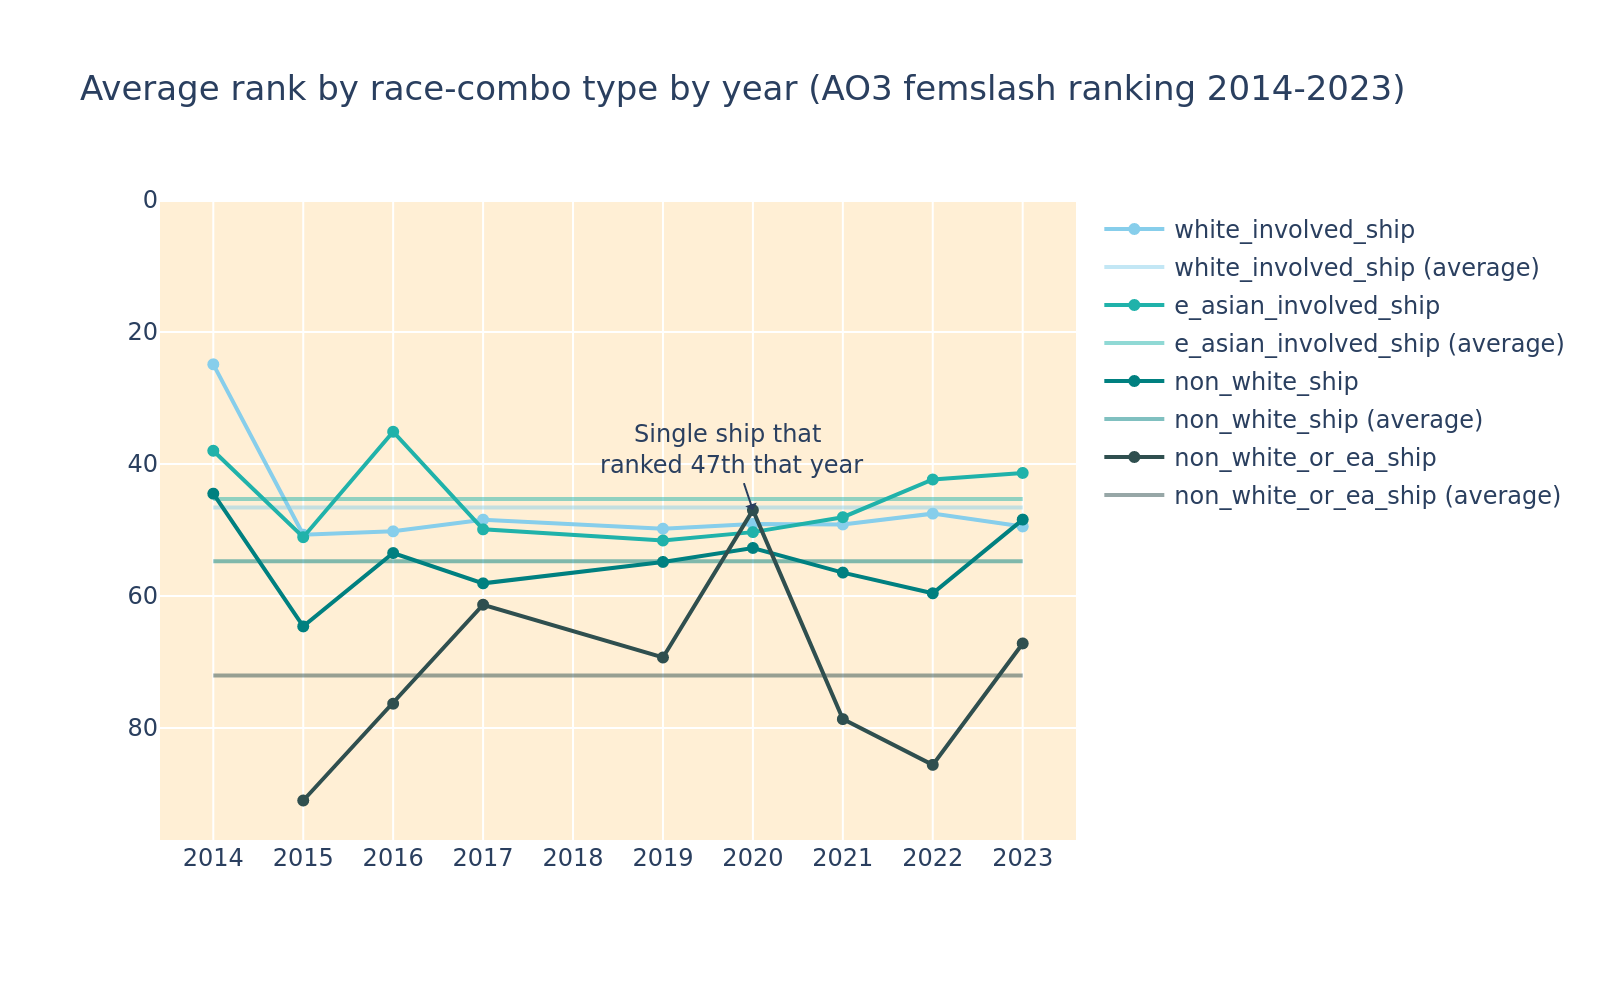
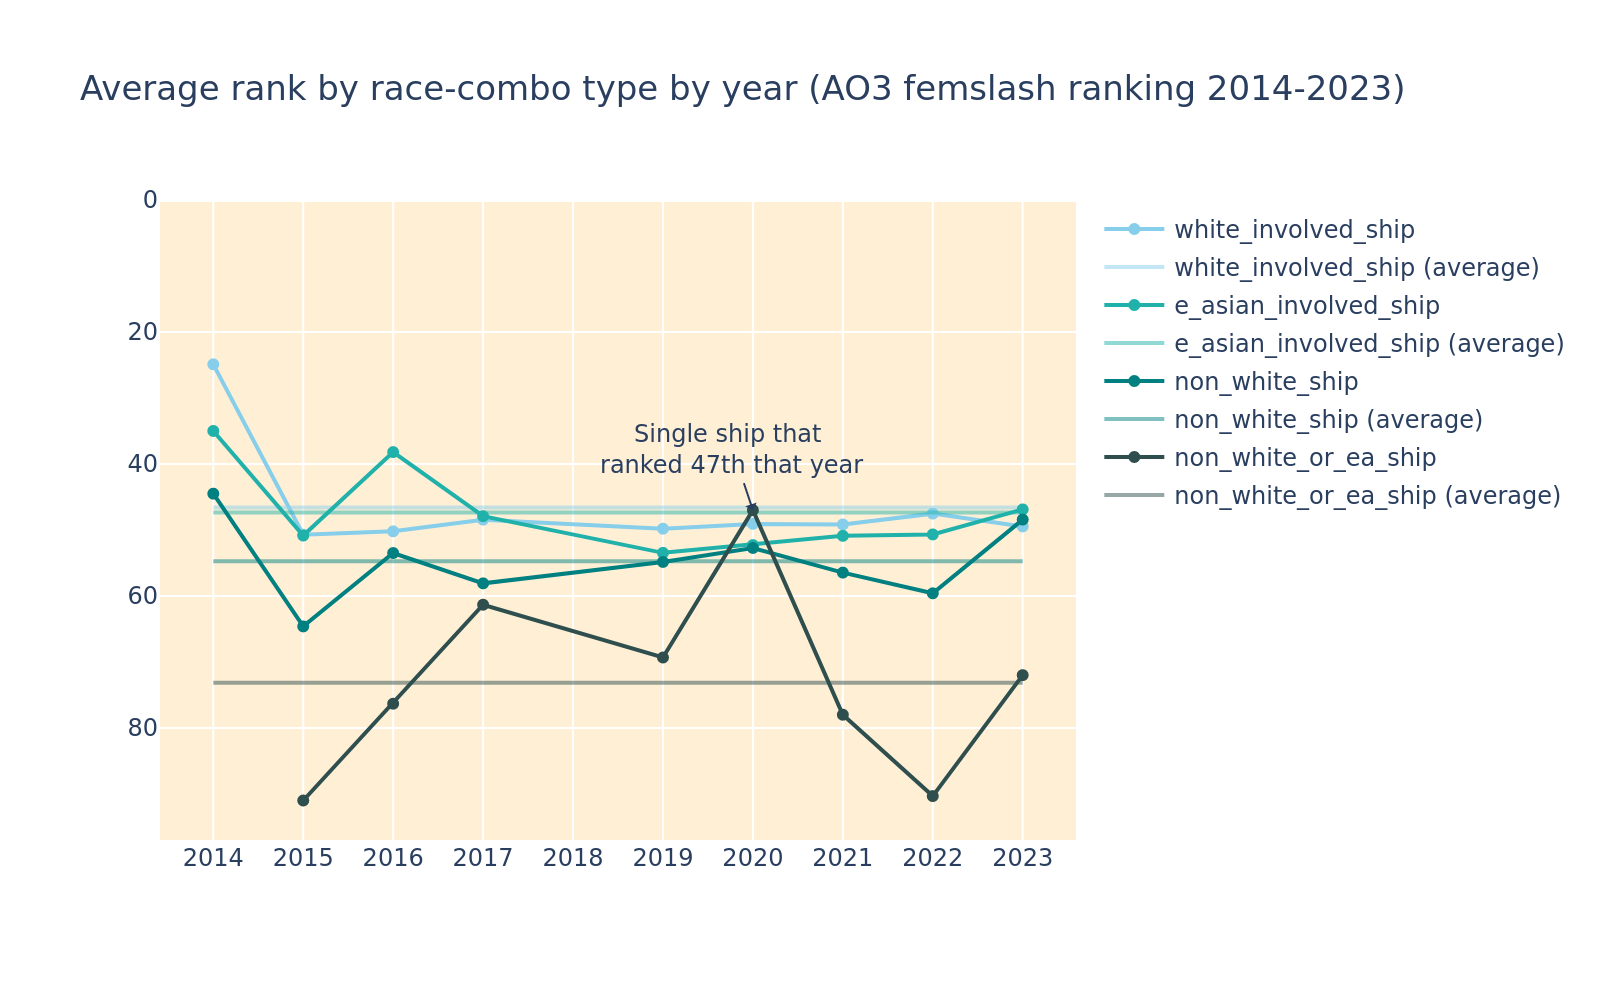
ok I think I fixed the catching issue this time

Changed region(s): [[0.125, 0.434, 0.6562, 0.558], [0.125, 0.651, 0.6562, 0.806]]

diff --git a/visualisation/ao3_all_data_2013_2023/vis_ships_file.py b/visualisation/ao3_all_data_2013_2023/vis_ships_file.py
@@ -181,7 +181,7 @@ def non_white_ships_srs(total_race_combo_counts:pd.DataFrame):
     # this one's the big oof
     non_white_ships = total_race_combo_counts.copy()
     non_white_ships["contains_white_person"] = non_white_ships.index.str.contains("White|Eu Ind")
-    non_white_ships["contains_e_asian_person"] = non_white_ships.index.str.contains("^E Asian", regex=True)
+    non_white_ships["contains_e_asian_person"] = non_white_ships.index.str.contains("^E Asian| E Asian", regex=True)
     non_white_ships["contains_ambig_person"] = non_white_ships.index.str.contains("Ambig")
     non_white_ships["contains_non_human"] = non_white_ships.index.str.contains("N.H.")
     non_white_ships["contains_unknown"] = non_white_ships.index.str.contains("Unknown")

diff --git a/visualisation/input_data_code/make_race_data.py b/visualisation/input_data_code/make_race_data.py
@@ -99,7 +99,7 @@ def prep_df_for_non_white_ship_comp(ship_info_df:pd.DataFrame):
 
         year_df["contains_white_person"] = year_df["race_combo"].str.contains("White|Eu Ind")
             # I want to catch anna and elsa cause they're not a "non-white/non-ea" pairing, that's silly
-        year_df["contains_e_asian_person"] = year_df["race_combo"].str.contains("^E Asian", regex=True)
+        year_df["contains_e_asian_person"] = year_df["race_combo"].str.contains("^E Asian| E Asian", regex=True)
             # making sure this isn't catching SE Asians by accident
         year_df["contains_ambig_person"] = year_df["race_combo"].str.contains("Ambig")
         year_df["contains_non_human"] = year_df["race_combo"].str.contains("N.H.")

diff --git a/visualisation/ao3_femslash_rankings_2014_2023/analysis_2014_2023_femslash_data.md b/visualisation/ao3_femslash_rankings_2014_2023/analysis_2014_2023_femslash_data.md
@@ -126,7 +126,8 @@ White involved, east asian involved and non-white ships hovered around the half-
 
 F.e. in 2020, there was only one ship represented which happened to rank 47th, singlehandedly making for the highest average of its category over the entire period.
 
-When looking at the average of all years' averages, white ivolved ships ranked higher than all other categories, with east asian involved ships in second, non-white ships in third and non-white or ea ships firmly in fourth by quite a margin.
+When looking at the average of all years' averages, white- and east asian-involved ships on average rank slightly above the halfway point, with east asian-involved ones ranking slightly higher than white ones.
+Both other categories rank lower, with non-white and non-east asian ships ranking the lowest out of all the categories.
 
 This means that not only are there less ships per category in this same order, they are also lower ranked on average.
 

diff --git a/visualisation/ao3_all_data_2013_2023/analysis_2013_2023_overall_data.md b/visualisation/ao3_all_data_2013_2023/analysis_2013_2023_overall_data.md
@@ -115,7 +115,7 @@ This chart shows the number of ships with at least one white person, with at lea
 
 ![alt text](ao3_all_data_charts/racial_groups_diagrams/all_ao3_ranked_ships_non_white_ships_2013_2023.png)
 
-I call the last one of those "The Big Oof" as there were only 22 ships (out of the 600 total) that didn't contain any white or east asian people.
+I call the last one of those "The Big Oof" as there were only 17 ships (out of the 600 total) that didn't contain any white or east asian people.
 
 This is the ratio of interracial, non-interracial and ambiguous ships:
 
